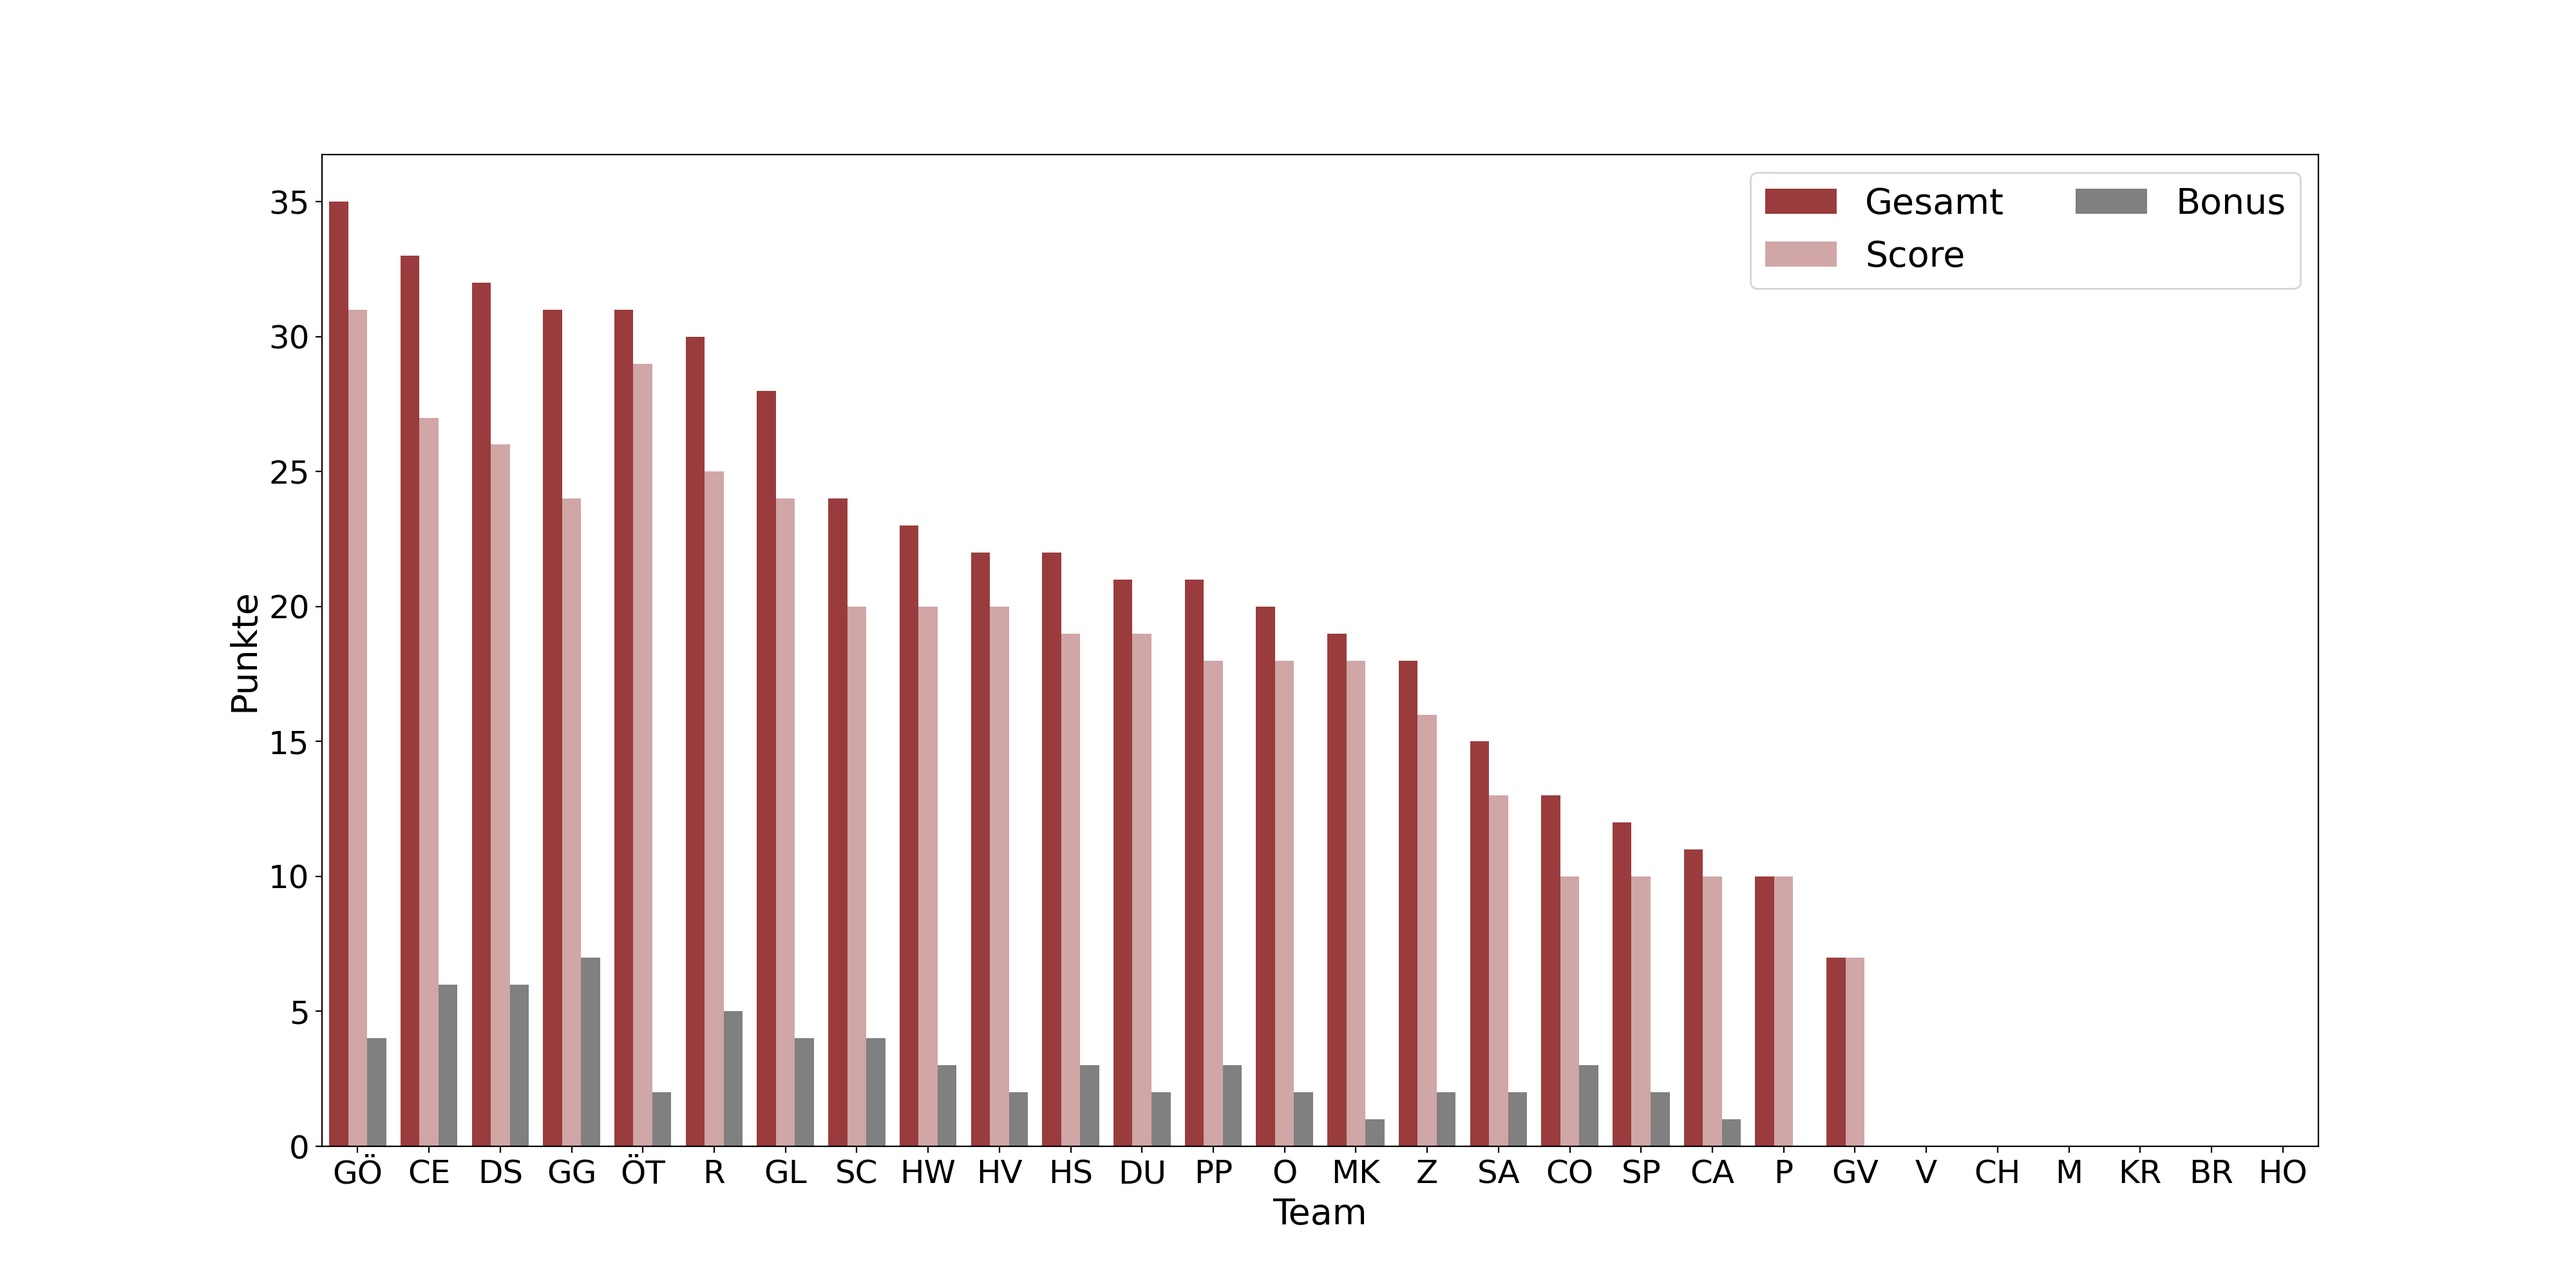
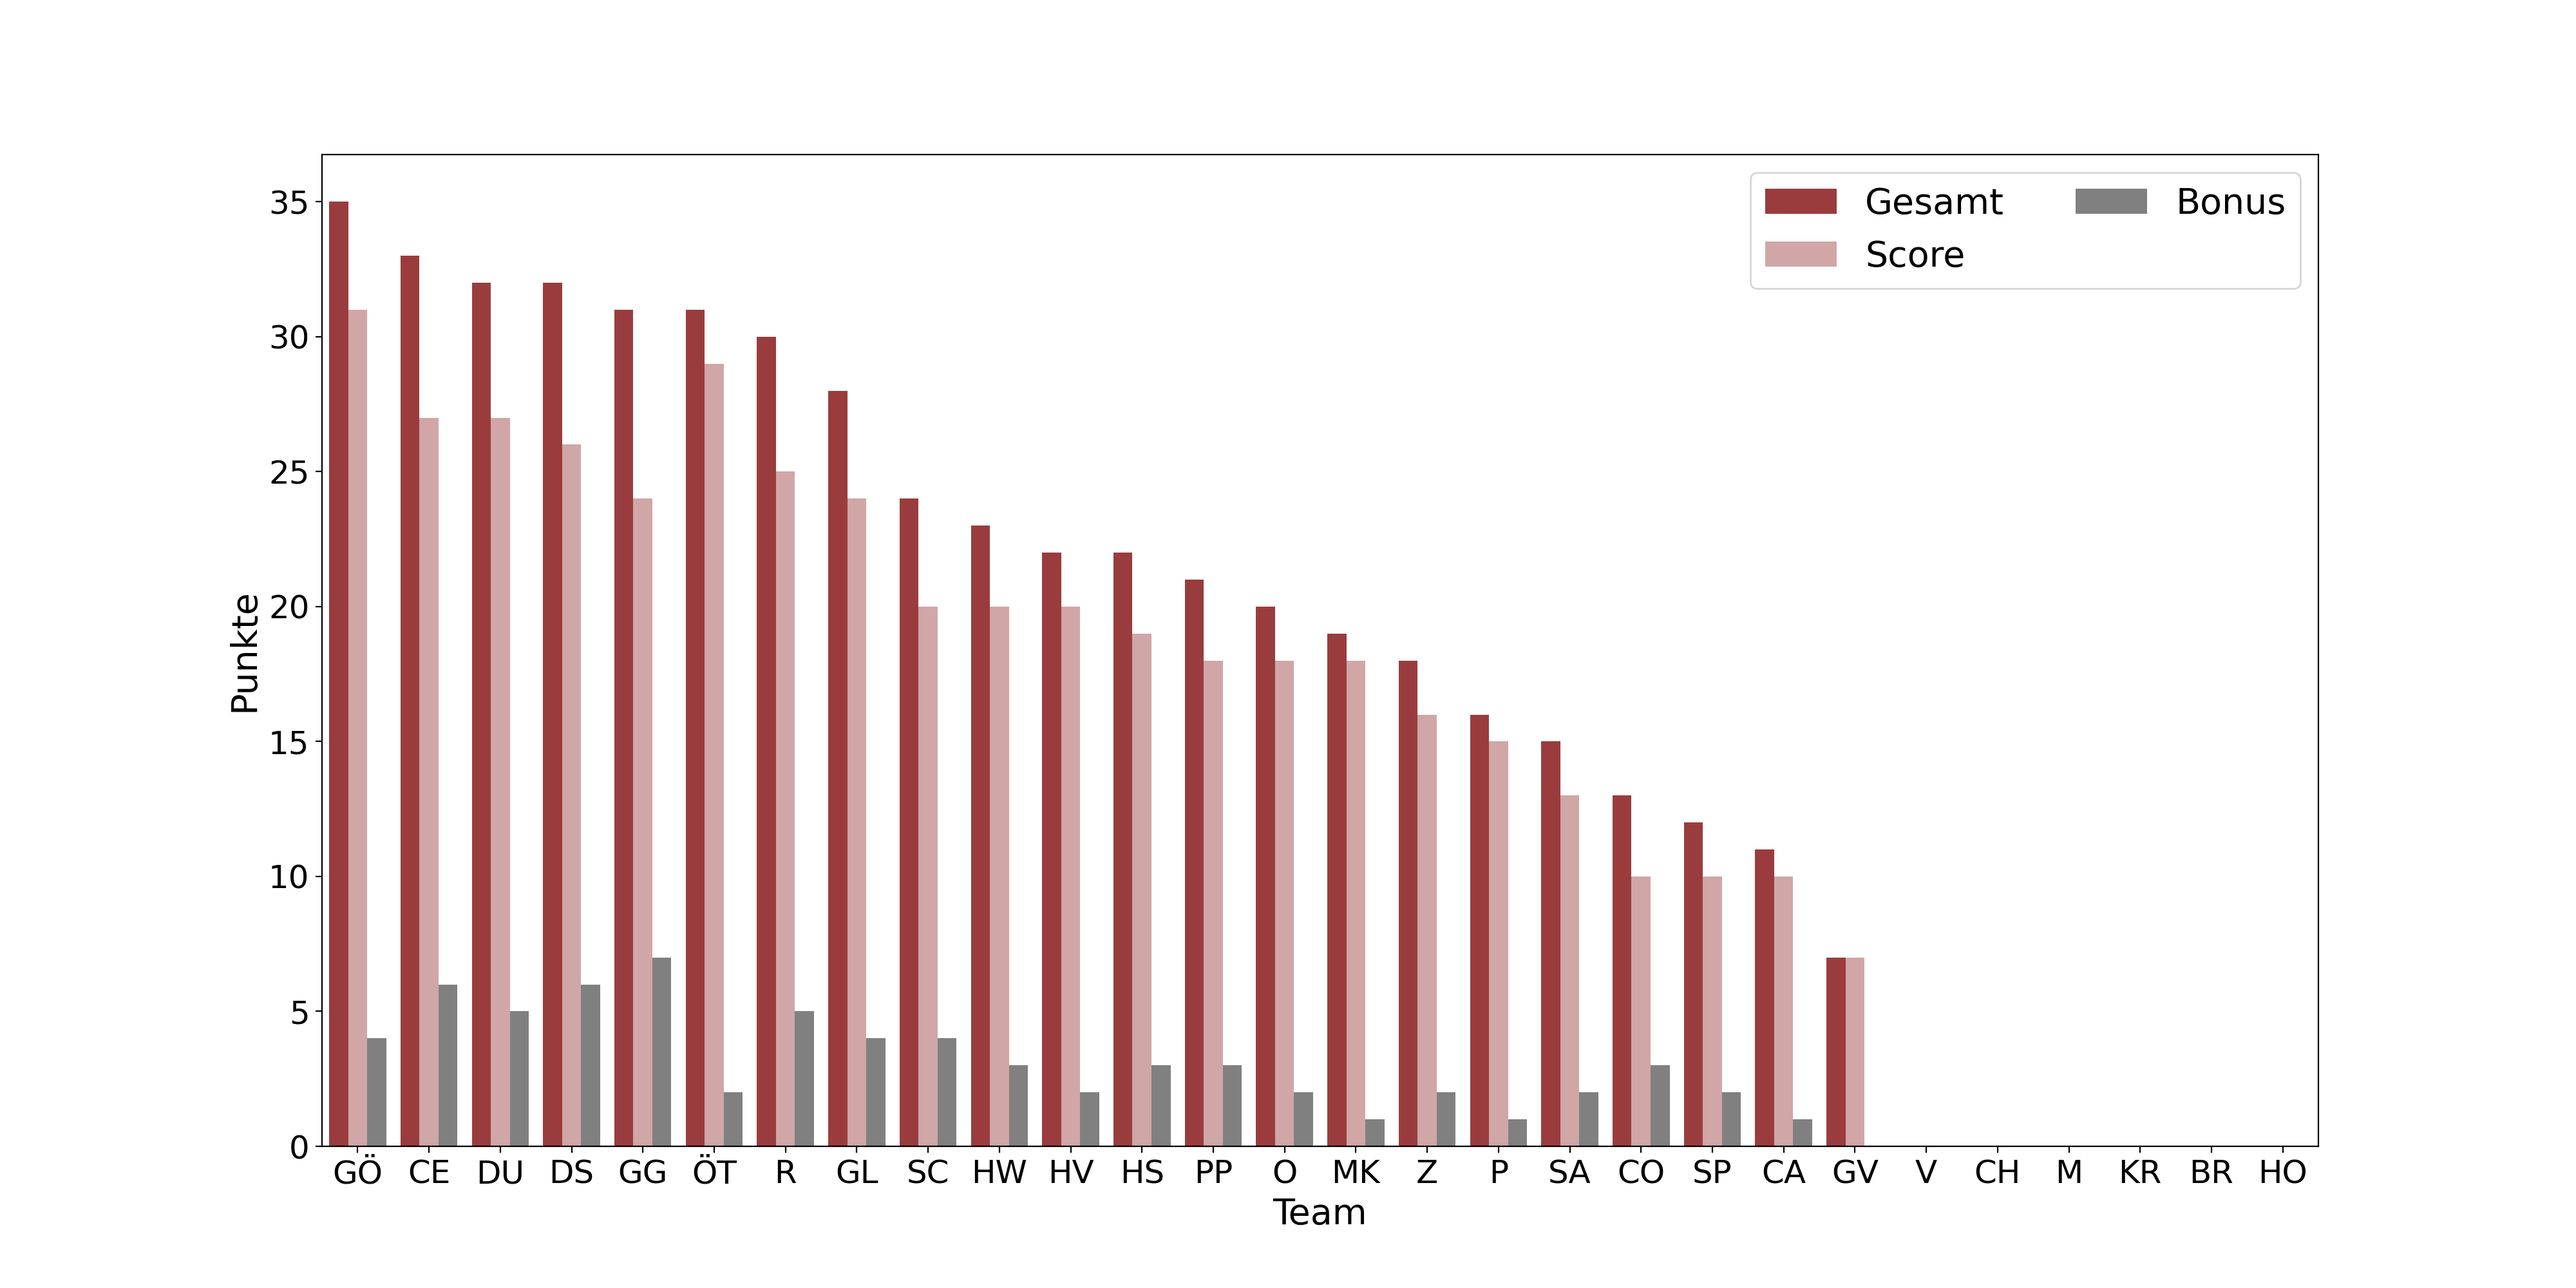
update

diff --git a/css/style_teams.css b/css/style_teams.css
@@ -12,7 +12,7 @@
             background-color: #bde0fe
         }
         .GL {
-            order: 6
+            order: 7
         }
         .GL .team__all-points::after{
             content: "28"
@@ -92,7 +92,7 @@
             background-color: #dab894
         }
         .DS {
-            order: 2
+            order: 3
         }
         .DS .team__all-points::after{
             content: "32"
@@ -100,22 +100,22 @@
         
 
         .DU .team__score::after {
-            content: "19/120"
+            content: "27/120"
         }
         .DU .team__stations::after {
-            content: "3/12"
+            content: "4/12"
         }
         .DU .team__bonus::after {
-            content: "2/36"
+            content: "5/36"
         }
         .DU .team__logo {
             background-color: #d6eadf
         }
         .DU {
-            order: 11
+            order: 2
         }
         .DU .team__all-points::after{
-            content: "21"
+            content: "32"
         }
 
 
@@ -133,7 +133,7 @@
             background-color: #957DAD
         }
         .OT {
-            order: 4
+            order: 5
         }
         .OT .team__all-points::after{
             content: " 31"
@@ -154,7 +154,7 @@
             background-color: #E0BBE4
         }
         .GG {
-            order: 3
+            order: 4
         }
         .GG .team__all-points::after{
              content: "31"
@@ -234,7 +234,7 @@
             background-color: #9d8189
         }
         .SC {
-            order: 7
+            order: 8
         }
         .SC .team__all-points::after{
             content: "24"
@@ -294,7 +294,7 @@
             background-color: #a2d2ff
         }
         .SA {
-            order: 16
+            order: 17
         }
         .SA .team__all-points::after{
             content: "15"
@@ -302,22 +302,22 @@
         
 
         .P .team__score::after {
-            content: "10/120"
+            content: "15/120"
         }
         .P .team__stations::after {
-            content: "1/12"
+            content: "2/12"
         }
         .P .team__bonus::after {
-            content: "0/36"
+            content: "1/36"
         }
         .P .team__logo {
             background-color: #5d5b6a
         }
         .P {
-            order: 20
+            order: 16
         }
         .P .team__all-points::after{
-            content: "10"
+            content: "16"
         }
 
 
@@ -334,7 +334,7 @@
             background-color: #ffafcc
         }
         .R {
-            order: 5
+            order: 6
         }
         .R .team__all-points::after{
             content: "30"
@@ -355,7 +355,7 @@
             background-color: #efe9ae
         }
         .HS {
-            order: 10
+            order: 11
         }
         .HS .team__all-points::after{
             content: "22"
@@ -416,7 +416,7 @@
             background-color: #758184
         }
         .HW {
-            order: 8
+            order: 9
         }
         .HW .team__all-points::after{
             content: "23"
@@ -456,7 +456,7 @@
             background-color: #ff6663
         }
         .CO {
-            order: 17
+            order: 18
         }
         .CO .team__all-points::after{
             content: "13"
@@ -476,7 +476,7 @@
             background-color: #b8e0d2
         }
         .HV {
-            order: 9
+            order: 10
         }
         .HV .team__all-points::after{
             content: "22"
@@ -516,7 +516,7 @@
             background-color: #ffc8dd
         }
         .CA {
-            order: 19
+            order: 20
         }
         .CA .team__all-points::after{
             content: "11"
@@ -535,7 +535,7 @@
             background-color: #f6bc66
         }
         .SP {
-            order: 18
+            order: 19
         }
         .SP .team__all-points::after{
             content: "12"

diff --git a/css/style_station.css b/css/style_station.css
@@ -24,11 +24,11 @@
         }
 
         .G .station__teams::after {
-            content: "4/28"
+            content: "5/28"
         }
 
         .H .station__teams::after {
-            content: "5/28"
+            content: "6/28"
         }
 
         .I .station__teams::after {
